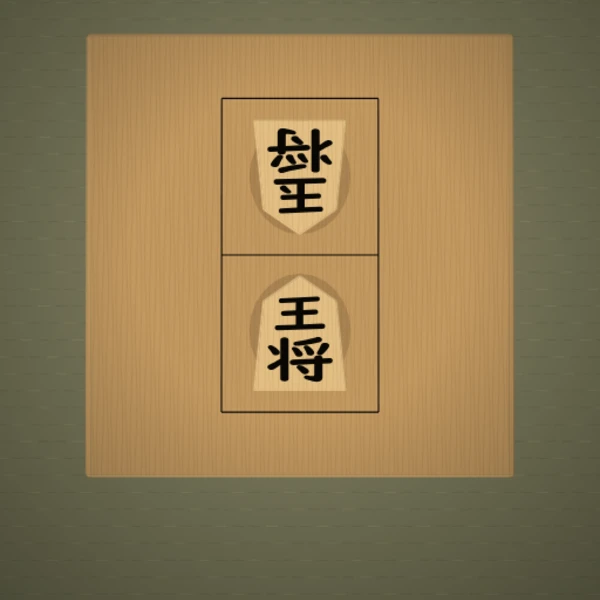
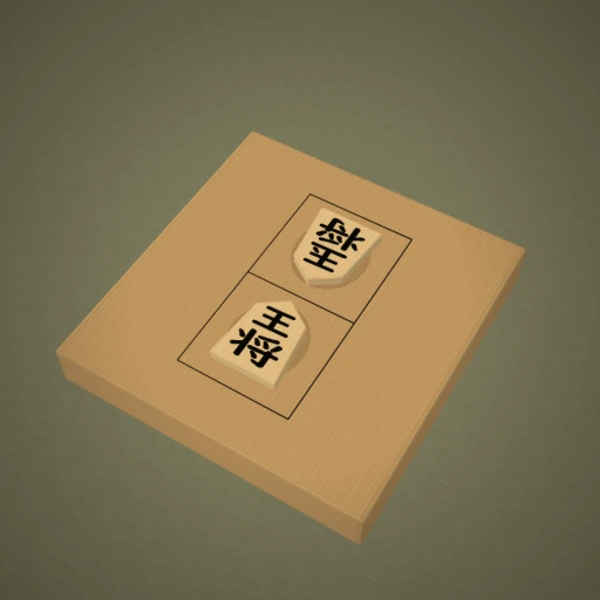
王将棋のサムネイルを斜め上から撮る

diff --git a/games/_oushogi/_source/game.js b/games/_oushogi/_source/game.js
@@ -126,7 +126,11 @@
   function scene(){
     var cinematic=state==='cinema',s=cinematic?shot():{index:0,progress:0};
     var p=s.progress,sgn=first===false?-1:1;
-    if(state==='ready' && !thumbMode){
+    if(state==='ready' && thumbMode){
+      /* 一覧の絵だけは、二枚の駒と盤の厚みが読める斜め上から撮る。 */
+      camera([4.7,-7.8,12.5],[0,0,-.22],Math.min(900,H));
+    }
+    else if(state==='ready'){
       /* 開始前だけ、30秒で一周する。開始後は盤を真上から見せる。 */
       var angle=elapsed*Math.PI*2/30;
       camera([Math.sin(angle)*9,-Math.cos(angle)*9,11.5],[0,0,-.25],Math.min(760,H*.84));

diff --git a/games/_oushogi/index.html b/games/_oushogi/index.html
@@ -221,7 +221,11 @@
   function scene(){
     var cinematic=state==='cinema',s=cinematic?shot():{index:0,progress:0};
     var p=s.progress,sgn=first===false?-1:1;
-    if(state==='ready' && !thumbMode){
+    if(state==='ready' && thumbMode){
+      /* 一覧の絵だけは、二枚の駒と盤の厚みが読める斜め上から撮る。 */
+      camera([4.7,-7.8,12.5],[0,0,-.22],Math.min(900,H));
+    }
+    else if(state==='ready'){
       /* 開始前だけ、30秒で一周する。開始後は盤を真上から見せる。 */
       var angle=elapsed*Math.PI*2/30;
       camera([Math.sin(angle)*9,-Math.cos(angle)*9,11.5],[0,0,-.25],Math.min(760,H*.84));
